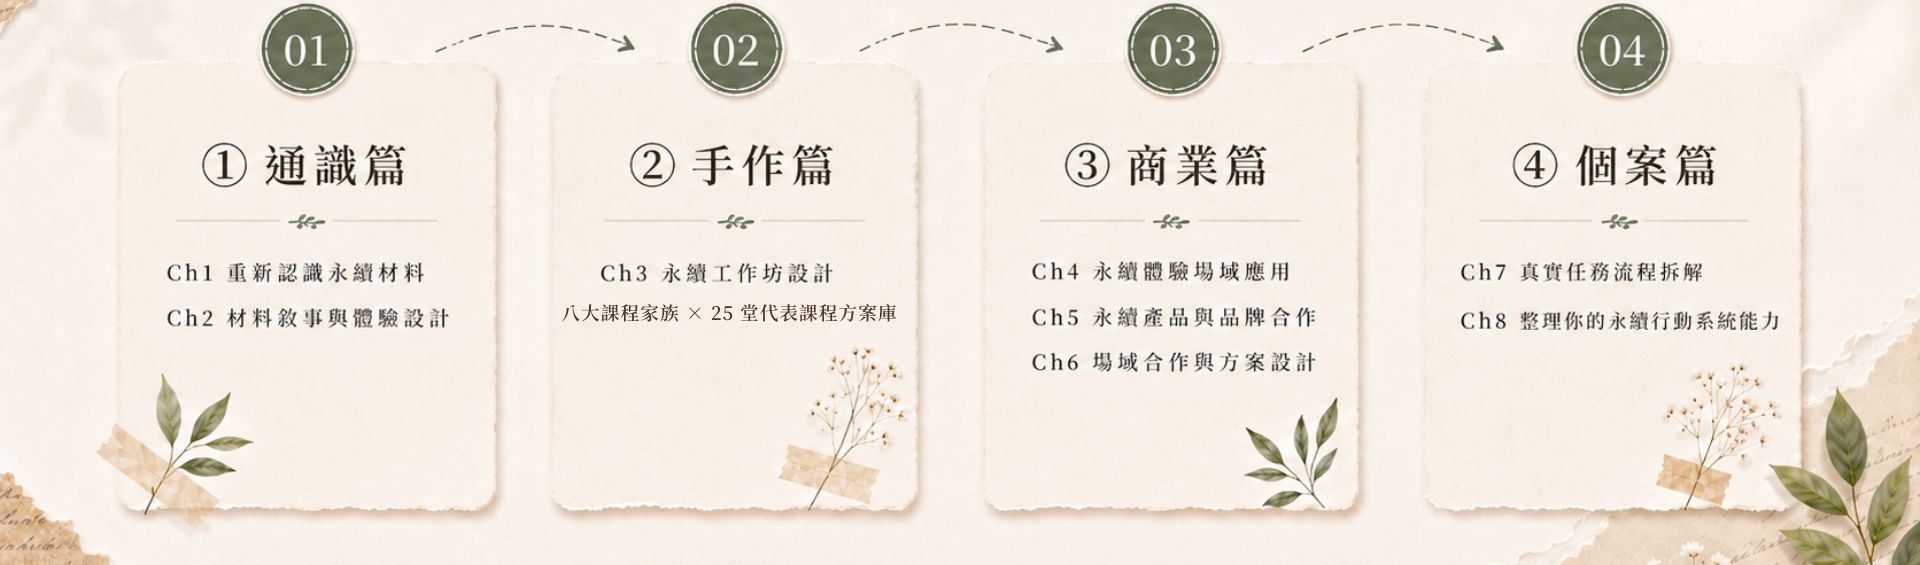
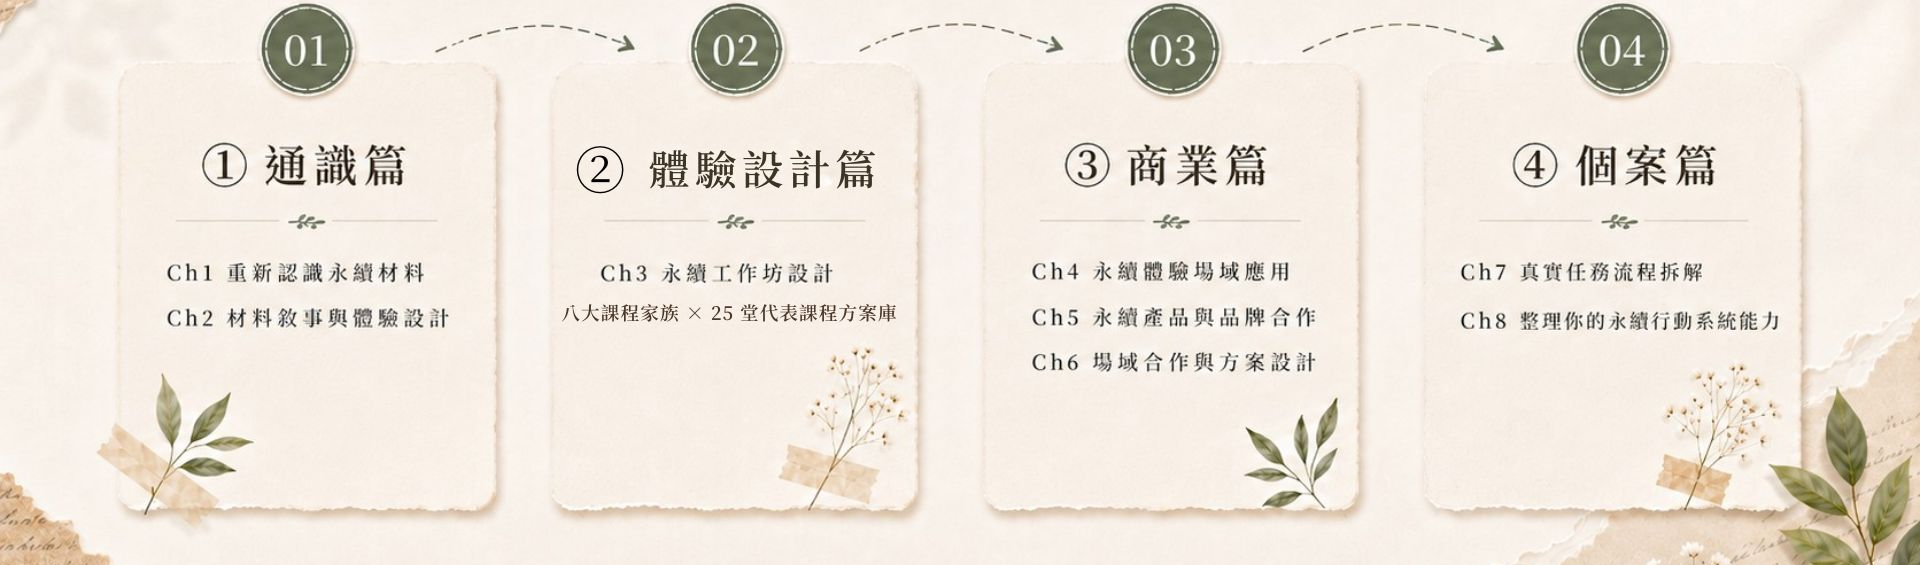
招生頁 P9 更新: ② 手作篇→體驗設計篇(換圖+alt)

Changed region(s): [[0.2812, 0.2407, 0.4688, 0.331]]

diff --git a/academy/index.html b/academy/index.html
@@ -418,7 +418,7 @@
       <h2 class="section-title">四大篇章·八個核心單元</h2>
       <p class="section-lead">從材料開始，一步一步學會把永續設計成能走進真實世界的體驗。</p>
     </div>
-    <img class="section-img section-img--bleed" style="margin-top:28px;" src="assets/section-chapters.png" alt="四大篇章·八個核心單元：① 通識篇（Ch1 重新認識永續材料、Ch2 材料敘事與體驗設計）、② 手作篇（Ch3 永續工作坊設計）、③ 商業篇（Ch4 永續體驗場域應用、Ch5 永續產品與品牌合作、Ch6 場域合作與方案設計）、④ 個案篇（Ch7 真實任務流程拆解、Ch8 整理你的永續行動系統能力）。" loading="lazy">
+    <img class="section-img section-img--bleed" style="margin-top:28px;" src="assets/section-chapters.png" alt="四大篇章·八個核心單元：① 通識篇（Ch1 重新認識永續材料、Ch2 材料敘事與體驗設計）、② 體驗設計篇（Ch3 永續工作坊設計）、③ 商業篇（Ch4 永續體驗場域應用、Ch5 永續產品與品牌合作、Ch6 場域合作與方案設計）、④ 個案篇（Ch7 真實任務流程拆解、Ch8 整理你的永續行動系統能力）。" loading="lazy">
   </div>
 </section>
 
